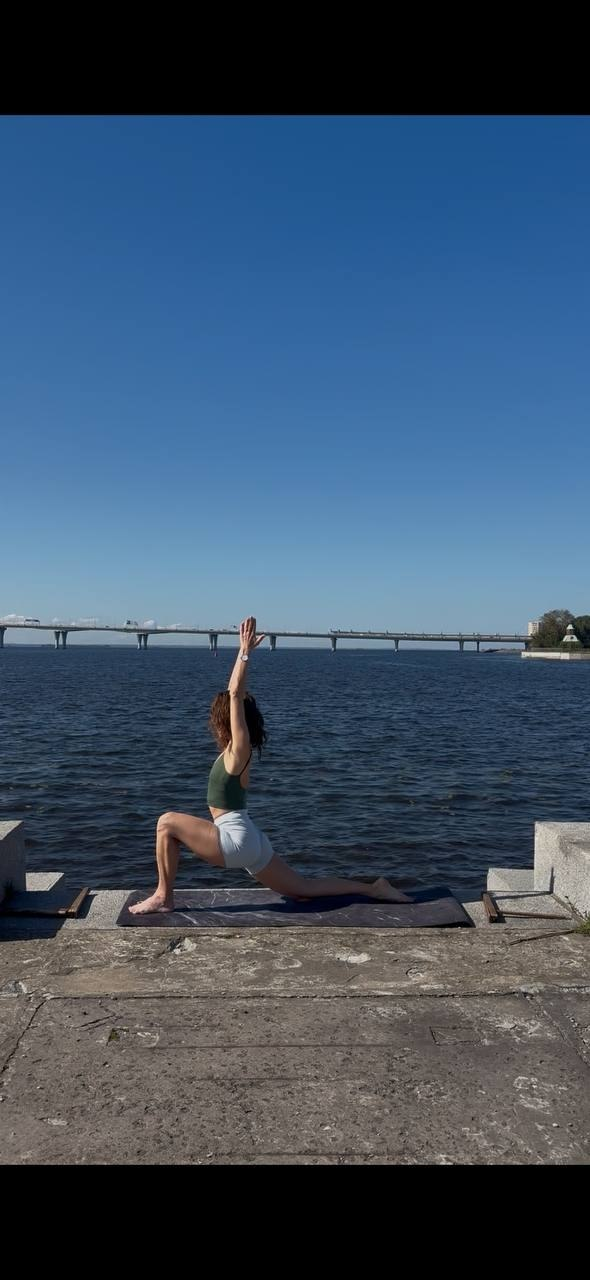
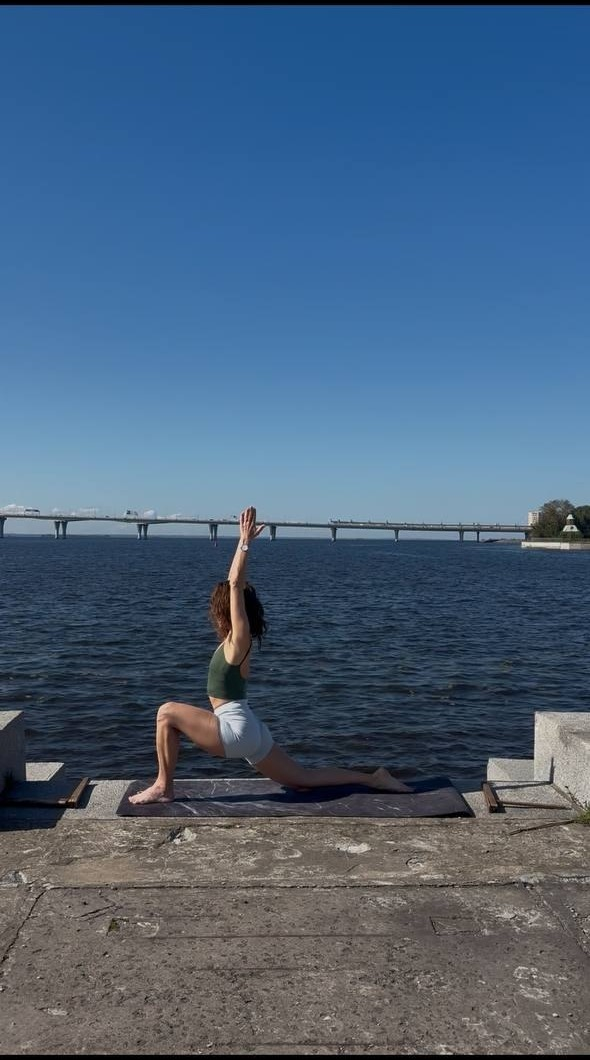
Обрезать чёрные полосы у фото на набережной и поправить кадрирование в hero-секциях

diff --git a/concept-8-filmstrip.html b/concept-8-filmstrip.html
@@ -90,7 +90,7 @@
 
 <section class="filmstrip">
   <div class="filmstrip-track">
-    <div class="frame"><img src="img-real/embankment-blue.jpg" alt="Асана на набережной"><div class="cap">Набережная, утро</div></div>
+    <div class="frame"><img src="img-real/embankment-blue.jpg" alt="Асана на набережной" style="object-position:center 62%;"><div class="cap">Набережная, утро</div></div>
     <div class="frame"><img src="img-real/split-mat-color.jpg" alt="Растяжка на мате"><div class="cap">Домашняя студия</div></div>
     <div class="frame"><img src="img-real/group-stretch-color.jpg" alt="Групповая практика"><div class="cap">Групповое занятие</div></div>
     <div class="frame"><img src="img-real/meditation-bw.jpg" alt="Медитация"><div class="cap">Тишина после практики</div></div>

diff --git a/concept-7-bento-mosaic.html b/concept-7-bento-mosaic.html
@@ -91,7 +91,7 @@
 <section class="mosaic">
   <div class="wrap">
     <div class="mgrid">
-      <div class="tile photo t-hero"><img src="img-real/embankment-blue.jpg" alt="Екатерина в асане на набережной"></div>
+      <div class="tile photo t-hero"><img src="img-real/embankment-blue.jpg" alt="Екатерина в асане на набережной" style="object-position:center 62%;"></div>
       <div class="tile dark flexcol t-headline"><h1>Хатха-йога без спешки — тело и дыхание в своём темпе</h1></div>
       <div class="tile light flexcol t-stat1"><span class="num">Опыт практики</span><div class="price">8 лет</div></div>
       <div class="tile accent flexcol t-stat2"><span class="num">Преподаю</span><div class="price">3 года</div></div>

diff --git a/concept-4-studio-grid.html b/concept-4-studio-grid.html
@@ -106,7 +106,7 @@
 
 <section class="bento">
   <div class="bento-grid">
-    <div class="bento-photo"><img src="img-real/embankment-blue.jpg" alt="Екатерина в асане на набережной"></div>
+    <div class="bento-photo"><img src="img-real/embankment-blue.jpg" alt="Екатерина в асане на набережной" style="object-position:center 62%;"></div>
     <div class="bento-type">
       <span class="mono">САНКТ-ПЕТЕРБУРГ · ХАТХА-ЙОГА</span>
       <h1>Регулярная практика с преподавателем, который держит фокус на технике и дыхании</h1>

diff --git a/concept-1-ros-copy-blue.html b/concept-1-ros-copy-blue.html
@@ -135,7 +135,7 @@
 </header>
 
 <section class="hero">
-  <img src="img-real/embankment-blue.jpg" alt="Екатерина в асане на набережной у воды">
+  <img src="img-real/embankment-blue.jpg" alt="Екатерина в асане на набережной у воды" style="object-position:center 62%;">
   <div class="hero-content">
     <div class="hero-tag">Хатха-йога · Санкт-Петербург</div>
     <h1>Дыши глубже. Двигайся мягче.<br>Возвращайся к себе.</h1>

diff --git a/concept-2-editorial.html b/concept-2-editorial.html
@@ -100,7 +100,7 @@
 </header>
 
 <section class="masthead">
-  <img src="img-real/embankment-blue.jpg" alt="Екатерина в асане на набережной у воды">
+  <img src="img-real/embankment-blue.jpg" alt="Екатерина в асане на набережной у воды" style="object-position:center 62%;">
   <div class="masthead-cap">
     <div class="wrap">
       <h1>Практика, которая возвращает тело туда, где оно есть — сейчас</h1>

diff --git a/concept-3-photo-essay.html b/concept-3-photo-essay.html
@@ -82,7 +82,7 @@
 </header>
 
 <section class="frame">
-  <img src="img-real/embankment-blue.jpg" alt="Екатерина в асане на набережной">
+  <img src="img-real/embankment-blue.jpg" alt="Екатерина в асане на набережной" style="object-position:center 62%;">
   <div class="frame-cap">
     <div class="wrap">
       <h2>Тело помнит то, что забыл разум</h2>

diff --git a/concept-9-airy-light-blue.html b/concept-9-airy-light-blue.html
@@ -118,7 +118,7 @@
       <a href="#" class="btn">Записаться на пробное</a>
     </div>
     <div class="hero-img">
-      <img src="img-real/embankment-blue.jpg" alt="Екатерина в асане на набережной">
+      <img src="img-real/embankment-blue.jpg" alt="Екатерина в асане на набережной" style="object-position:center 62%;">
     </div>
   </div>
 </section>
